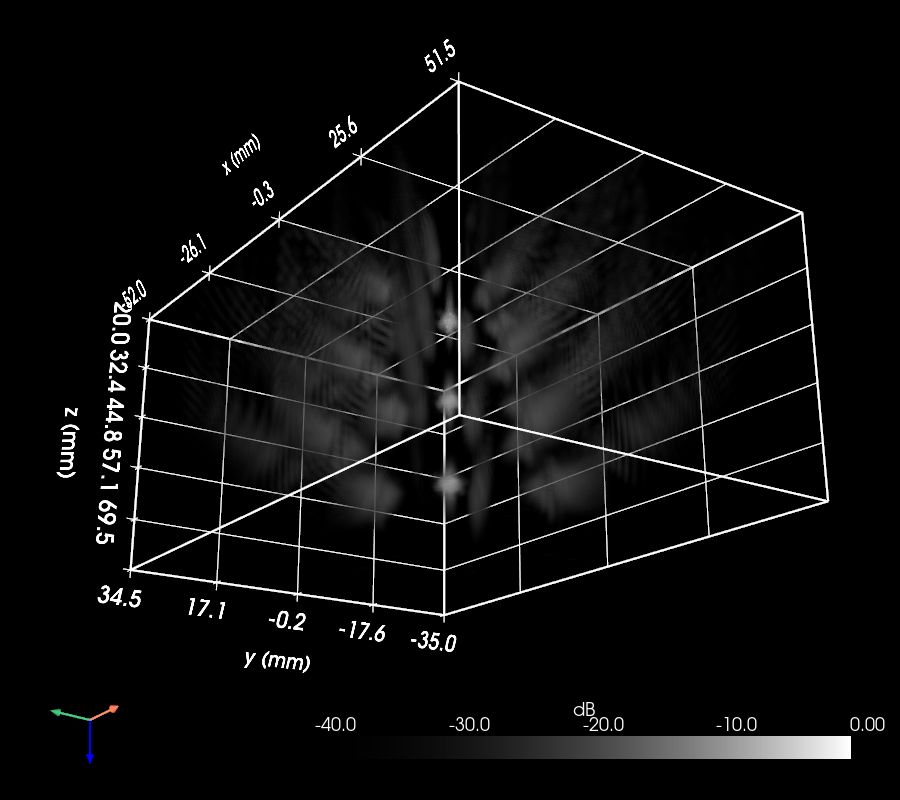
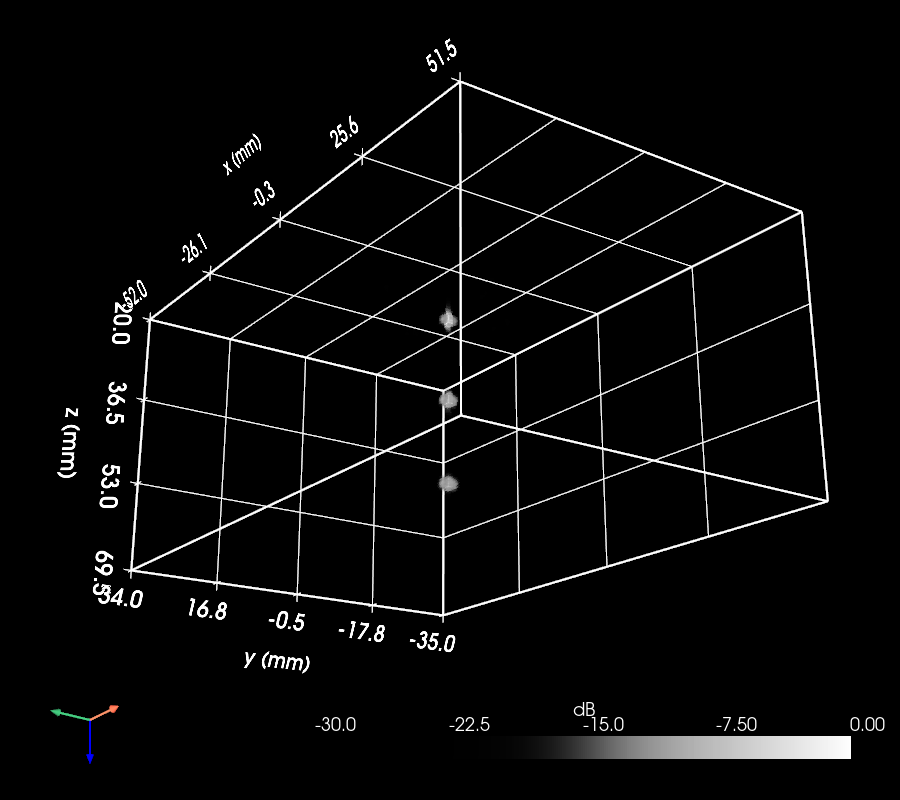
fix(examples): example24 render -30 dB sigmoid window, 4 z-labels, wider PSF profile
Render the PSF volume over a -30 dB display window with sigmoid opacity (was a -40 dB linear ramp) so the three lobes read clean, and label the z axis with 4 gridlines. The lateral PSF profile now spans x in -50..50 mm with a -59..0 dB range (fine planes clipped to -60 dB) to show the full grating-lobe ladder. Elevation render step relaxed to 1 mm (spots sit at y~0) to cut the 0.5 mm grid cost from ~8x to ~4x.

diff --git a/examples/example24_multilens_matrix_psf.py b/examples/example24_multilens_matrix_psf.py
@@ -214,7 +214,9 @@ def fine_plane(depth_mm, datum_z_mm):
         t_offset_s=datum_offset_s(datum_z_mm),
     )
     fenv = np.abs(hilbert(fvol, axis=2))
-    fdb = 20 * np.log10(np.clip(fenv / fenv.max(), 10 ** (DB_FLOOR / 20), None))
+    # Clip to -60 dB (below the -40 dB maps) so the lateral profile plot resolves the
+    # full side/grating-lobe ladder down to its -59 dB axis; widths/lobe levels unaffected.
+    fdb = 20 * np.log10(np.clip(fenv / fenv.max(), 10 ** (-60.0 / 20), None))
     return fax["x_mm"], fax["z_mm"], fdb[:, 0, :]
 
 
@@ -251,14 +253,15 @@ print("  (paper: 1.06 mm lateral, grating lobes -22.4 dB)")
 
 # Render volume: the paper's 104 x 70 mm lateral box, framed around the three targets. The
 # main lobe is ~1 mm, so 1 mm voxels render it ~1 voxel wide (blocky — the ray-cast mapper
-# can only interpolate between the samples it is given). 0.5 mm voxels put 2-3 samples across
-# the lobe so it renders smooth; cost (voxels x RX channels x events) rises ~8x, to ~8 s.
+# can only interpolate between the samples it is given). 0.5 mm in x/z puts 2-3 samples across
+# the lobe so it renders smooth; elevation (y) stays 1 mm since the spots sit at y~0, so the
+# cost (voxels x RX channels x events) is ~4x the 1 mm grid, not 8x.
 grid_mm = {
     "x_extent": [-52, 52],
     "y_extent": [-35, 35],
     "z_extent": [20, 70],
     "dx": 0.5,
-    "dy": 0.5,
+    "dy": 1.0,  # elevation kept coarse: the spots sit at y~0, so halve the voxel count
     "dz": 0.5,
 }
 vol, axes = das_volume(
@@ -278,10 +281,11 @@ x_mm, y_mm, z_mm = axes["x_mm"], axes["y_mm"], axes["z_mm"]
 iy0 = int(np.argmin(np.abs(y_mm - 0.0)))
 iz_mid = int(np.argmin(np.abs(z_mm - DEPTHS_MM[1])))
 
-# Fig. 2-style render: grayscale, dB, volume-rendered with a LINEAR opacity transfer
-# function (opacity rises linearly from transparent at -40 dB to opaque at 0 dB). Dark
-# theme (black background, white box/ruler/colorbar) with the z axis pointing DOWN, the
+# Fig. 2-style render: grayscale, dB, volume-rendered with a SIGMOID opacity transfer
+# function over a -30 dB display window (lobes opaque, the -30 dB background transparent).
+# Dark theme (black background, white box/ruler/colorbar) with the z axis pointing DOWN, the
 # ultrasound depth convention, so the probe is at the top and the three targets below it.
+RENDER_FLOOR = -30.0  # display window for the volume render (tighter than the -40 dB data)
 import pyvista as pv  # noqa: E402 — deferred so a headless import failure is obvious
 
 img = pv.ImageData(
@@ -296,13 +300,15 @@ pl.add_volume(
     img,
     scalars="dB",
     cmap="gray",
-    opacity="linear",
-    clim=[DB_FLOOR, 0.0],
+    opacity="sigmoid",
+    clim=[RENDER_FLOOR, 0.0],
     mapper="smart",
     scalar_bar_args={"title": "dB", "color": "white"},  # colorbar text white on black
 )
 pl.add_mesh(img.outline(), color="white", line_width=2)
-pl.show_grid(xtitle="x (mm)", ytitle="y (mm)", ztitle="z (mm)", color="white")
+pl.show_grid(
+    xtitle="x (mm)", ytitle="y (mm)", ztitle="z (mm)", color="white", n_zlabels=4
+)
 pl.add_axes(xlabel="x (mm)", ylabel="y (mm)", zlabel="z (mm)")
 pl.camera_position = "yz"
 pl.camera.azimuth = 35
@@ -328,8 +334,8 @@ ax[1].set(
     xlabel="x (mm)",
     ylabel="dB",
     title="lateral PSF vs depth",
-    xlim=(-25, 25),
-    ylim=(DB_FLOOR, 2),
+    xlim=(-50, 50),
+    ylim=(-59, 0),
 )
 ax[1].legend(loc="upper right")
 m1 = ax[2].pcolormesh(

diff --git a/examples/README.md b/examples/README.md
@@ -63,7 +63,7 @@ Run any example with `uv run examples/<script>.py`.
 | 21 | `example21_3Dphantom_volume/` | Full volumetric case study: shared phantom, diverging-wave sequence, checkpointed `sequence_rf` acquisition, `das_volume` IQ compounding, honest metrics. See its `README.md` (incl. "Design notes & pitfalls"). |
 | 22 | `example22_flow_doppler/` | Ultrafast compound Doppler, replicating Bercoff 2011: three acquisitions on one moving phantom compare conventional focused colour Doppler with plane-wave compounding. Uses moving scatterers in `sequence_rf`. See its `README.md`. |
 | 23 | `example23_optimize_radial_element.py` | Model a diverging multilens element as a rigid cap: refractive doublet vs strictly-convex vs free-aspheric fits (`scipy.optimize`), each shown with `visualize_element`. |
-| 24 | `example24_multilens_matrix_psf.py` | Assemble the paper's 252-element (18×14) diverging-multilens matrix from the example-23 cap with `CustomTransducer`; reproduce its depth-resolved Fig. 2 PSF (3 targets, full-aperture receive) with the central-4×4 16-source diverging sequence (`sequence_rf` + `das_volume`), referencing the beamformer to each lens's `virtual_source_m`, and a grayscale/linear-opacity dB volume render. |
+| 24 | `example24_multilens_matrix_psf.py` | Assemble the paper's 252-element (18×14) diverging-multilens matrix from the example-23 cap with `CustomTransducer`; reproduce its depth-resolved Fig. 2 PSF (3 targets, full-aperture receive) with the central-4×4 16-source diverging sequence (`sequence_rf` + `das_volume`), referencing the beamformer to each lens's `virtual_source_m`, and a grayscale/sigmoid-opacity dB volume render. |
 
 ---
 

diff --git a/docs/examples/example24_multilens_matrix_psf.md b/docs/examples/example24_multilens_matrix_psf.md
@@ -17,7 +17,7 @@ everywhere. This example reproduces it with
 [`CustomTransducer`][esdiva.transducers.CustomTransducer] (252 copies of the example-23
 free-aspheric cap), fires the 16-source sequence at three point targets, delay-and-sums the
 compounded echoes into a 3-D volume, and renders it the way the paper does — grayscale, in
-dB, with a linear opacity transfer function.
+dB, with a sigmoid opacity transfer function over a −30 dB display window.
 
 [Source on GitHub](https://github.com/EstebanRivera08/eSDIva/blob/main/examples/example24_multilens_matrix_psf.py)
 
@@ -88,9 +88,10 @@ evidence that the lens curvature — not the array aperture — set the earlier 
 ## The Fig. 2-style volume render
 
 The beamformed volume is envelope-detected along depth, log-compressed to dB, and
-volume-rendered with PyVista using a **grayscale** colormap, a **linear** opacity transfer
-function (opacity rising from transparent at −40 dB to opaque at 0 dB), and the **`"smart"`**
-volume mapper (ray-cast). A dark theme (black background, **all text white** — ruler,
+volume-rendered with PyVista using a **grayscale** colormap, a **sigmoid** opacity transfer
+function over a **−30 dB** display window (lobes opaque, the −30 dB background transparent),
+and the **`"smart"`** volume mapper (ray-cast). A dark theme (black background, **all text
+white** — ruler,
 colorbar, box, axes) with the z axis pointing **down** (`camera.up = (0, 0, −1)`, the
 ultrasound depth convention) puts the probe at the top and the three targets below. The
 render box is the paper's **104 × 70 mm** lateral phantom, framed over the 20–70 mm depth

diff --git a/docs/examples/index.md b/docs/examples/index.md
@@ -180,7 +180,7 @@ Output figures are controlled by `examples/config.py`. Set `FIG_FOLDER` to choos
 
     ---
 
-    Assemble the paper's 252-element (18×14) diverging-multilens matrix with `CustomTransducer`, fire its central-4×4 16-source diverging sequence onto three depth targets, beamform on the full receive aperture referenced to each lens's `virtual_source_m`, and render the depth-resolved 3-D PSF (Fig. 2 style — grayscale, dB, linear opacity) with `das_volume`.
+    Assemble the paper's 252-element (18×14) diverging-multilens matrix with `CustomTransducer`, fire its central-4×4 16-source diverging sequence onto three depth targets, beamform on the full receive aperture referenced to each lens's `virtual_source_m`, and render the depth-resolved 3-D PSF (Fig. 2 style — grayscale, dB, sigmoid opacity) with `das_volume`.
 
 </div>
 

diff --git a/docs/changelog.md b/docs/changelog.md
@@ -48,7 +48,7 @@ All notable changes to eSDIva are documented here.
   from the example-23 cap with `CustomTransducer`; reproduce its depth-resolved Fig. 2
   point PSF (three targets, full-aperture receive) with the central-4×4 16-source
   diverging sequence (`sequence_rf` + `das_volume`), referencing the beamformer to each
-  lens's `virtual_source_m`, and a grayscale, linear-opacity dB volume render.
+  lens's `virtual_source_m`, and a grayscale, sigmoid-opacity dB volume render.
 - **`normalize_patch_size`** parameter on `ConcaveCircularTransducer` and
   `ConvexCircularTransducer` (cartesian method only, default `False`).
   When `True`, patch `wu`/`wv` are set to the arc-length parameter step
